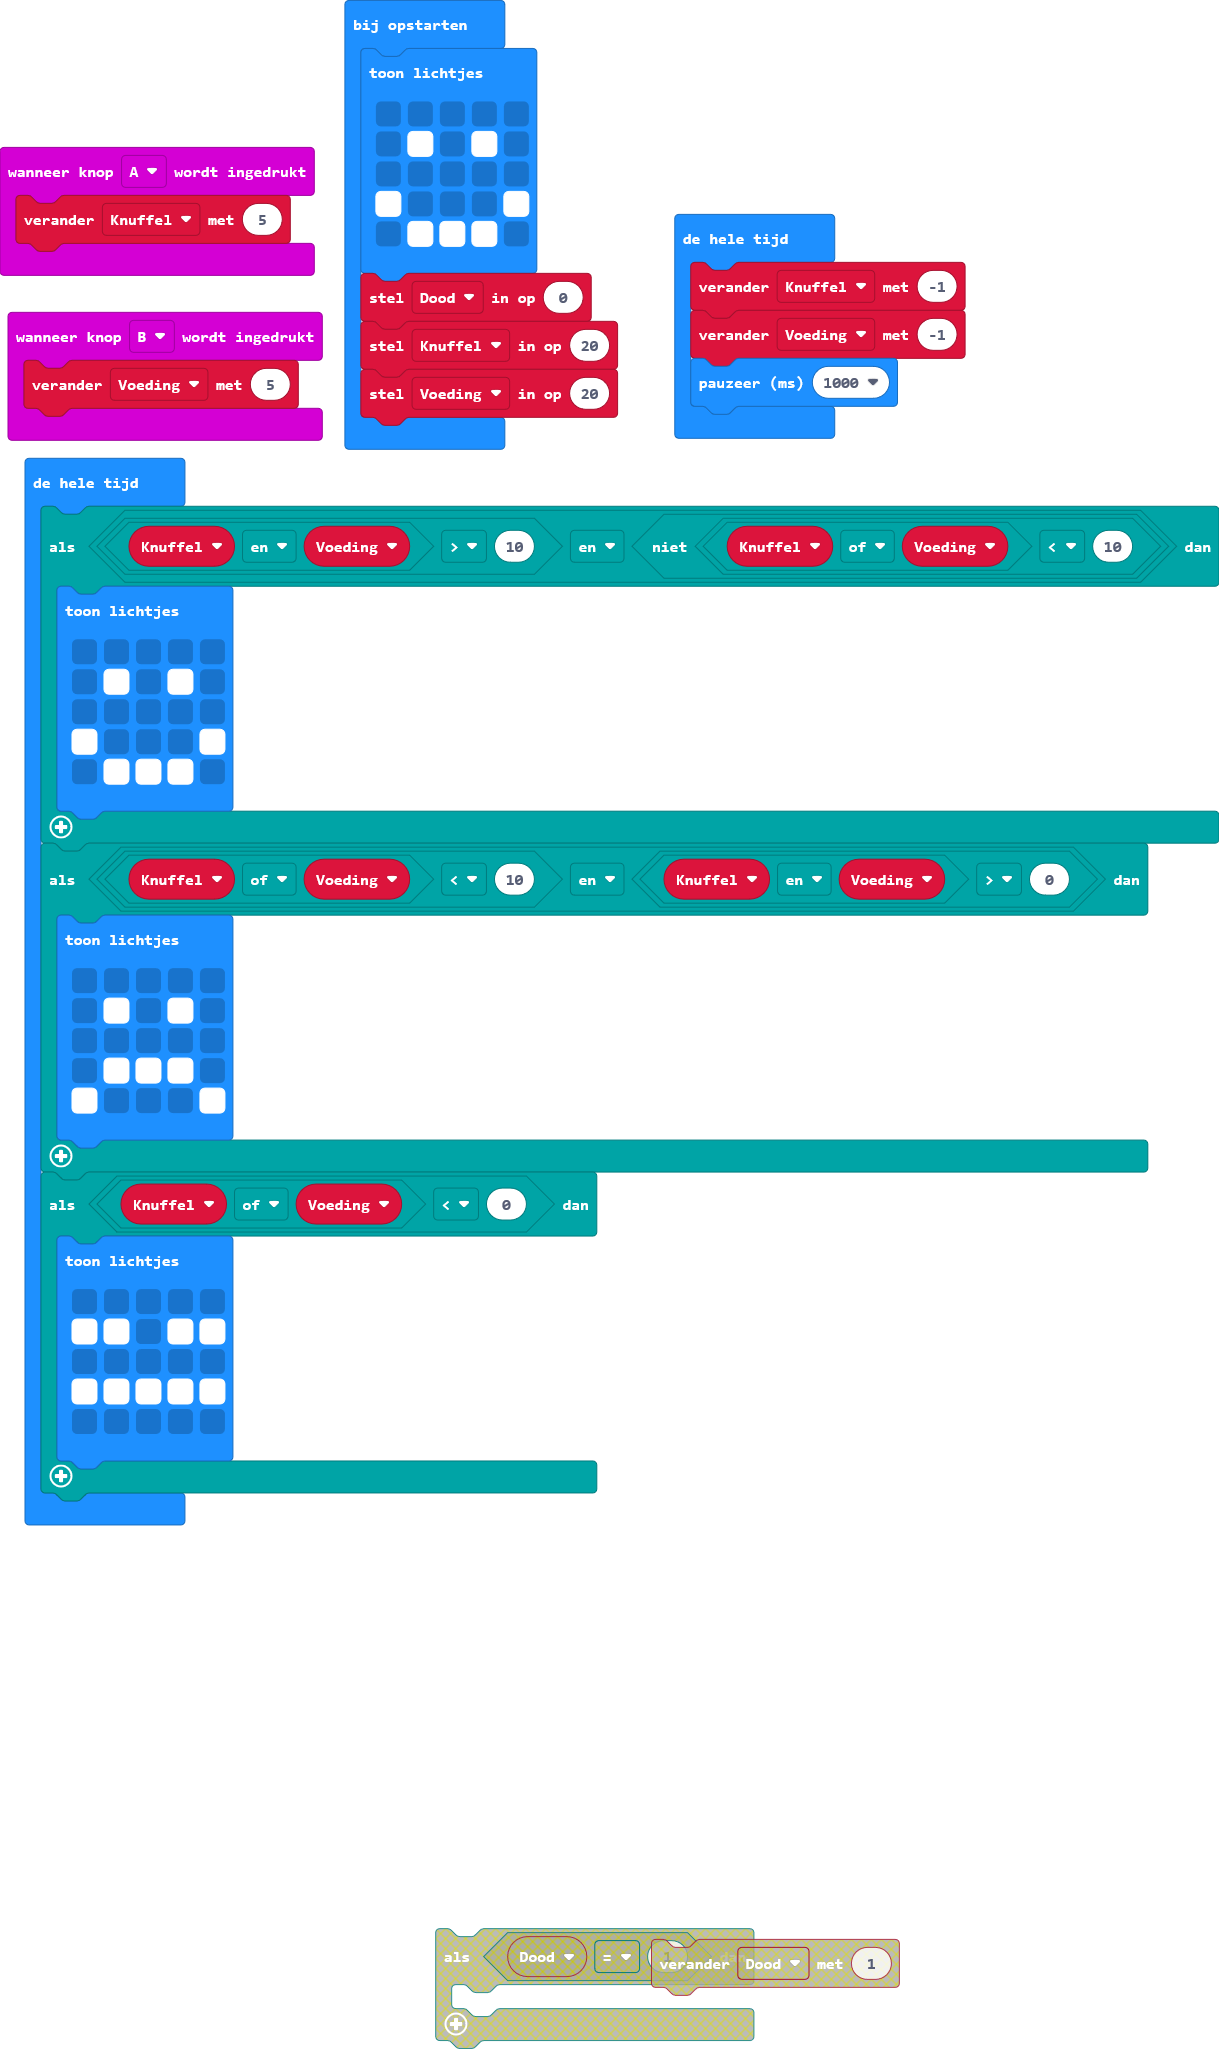
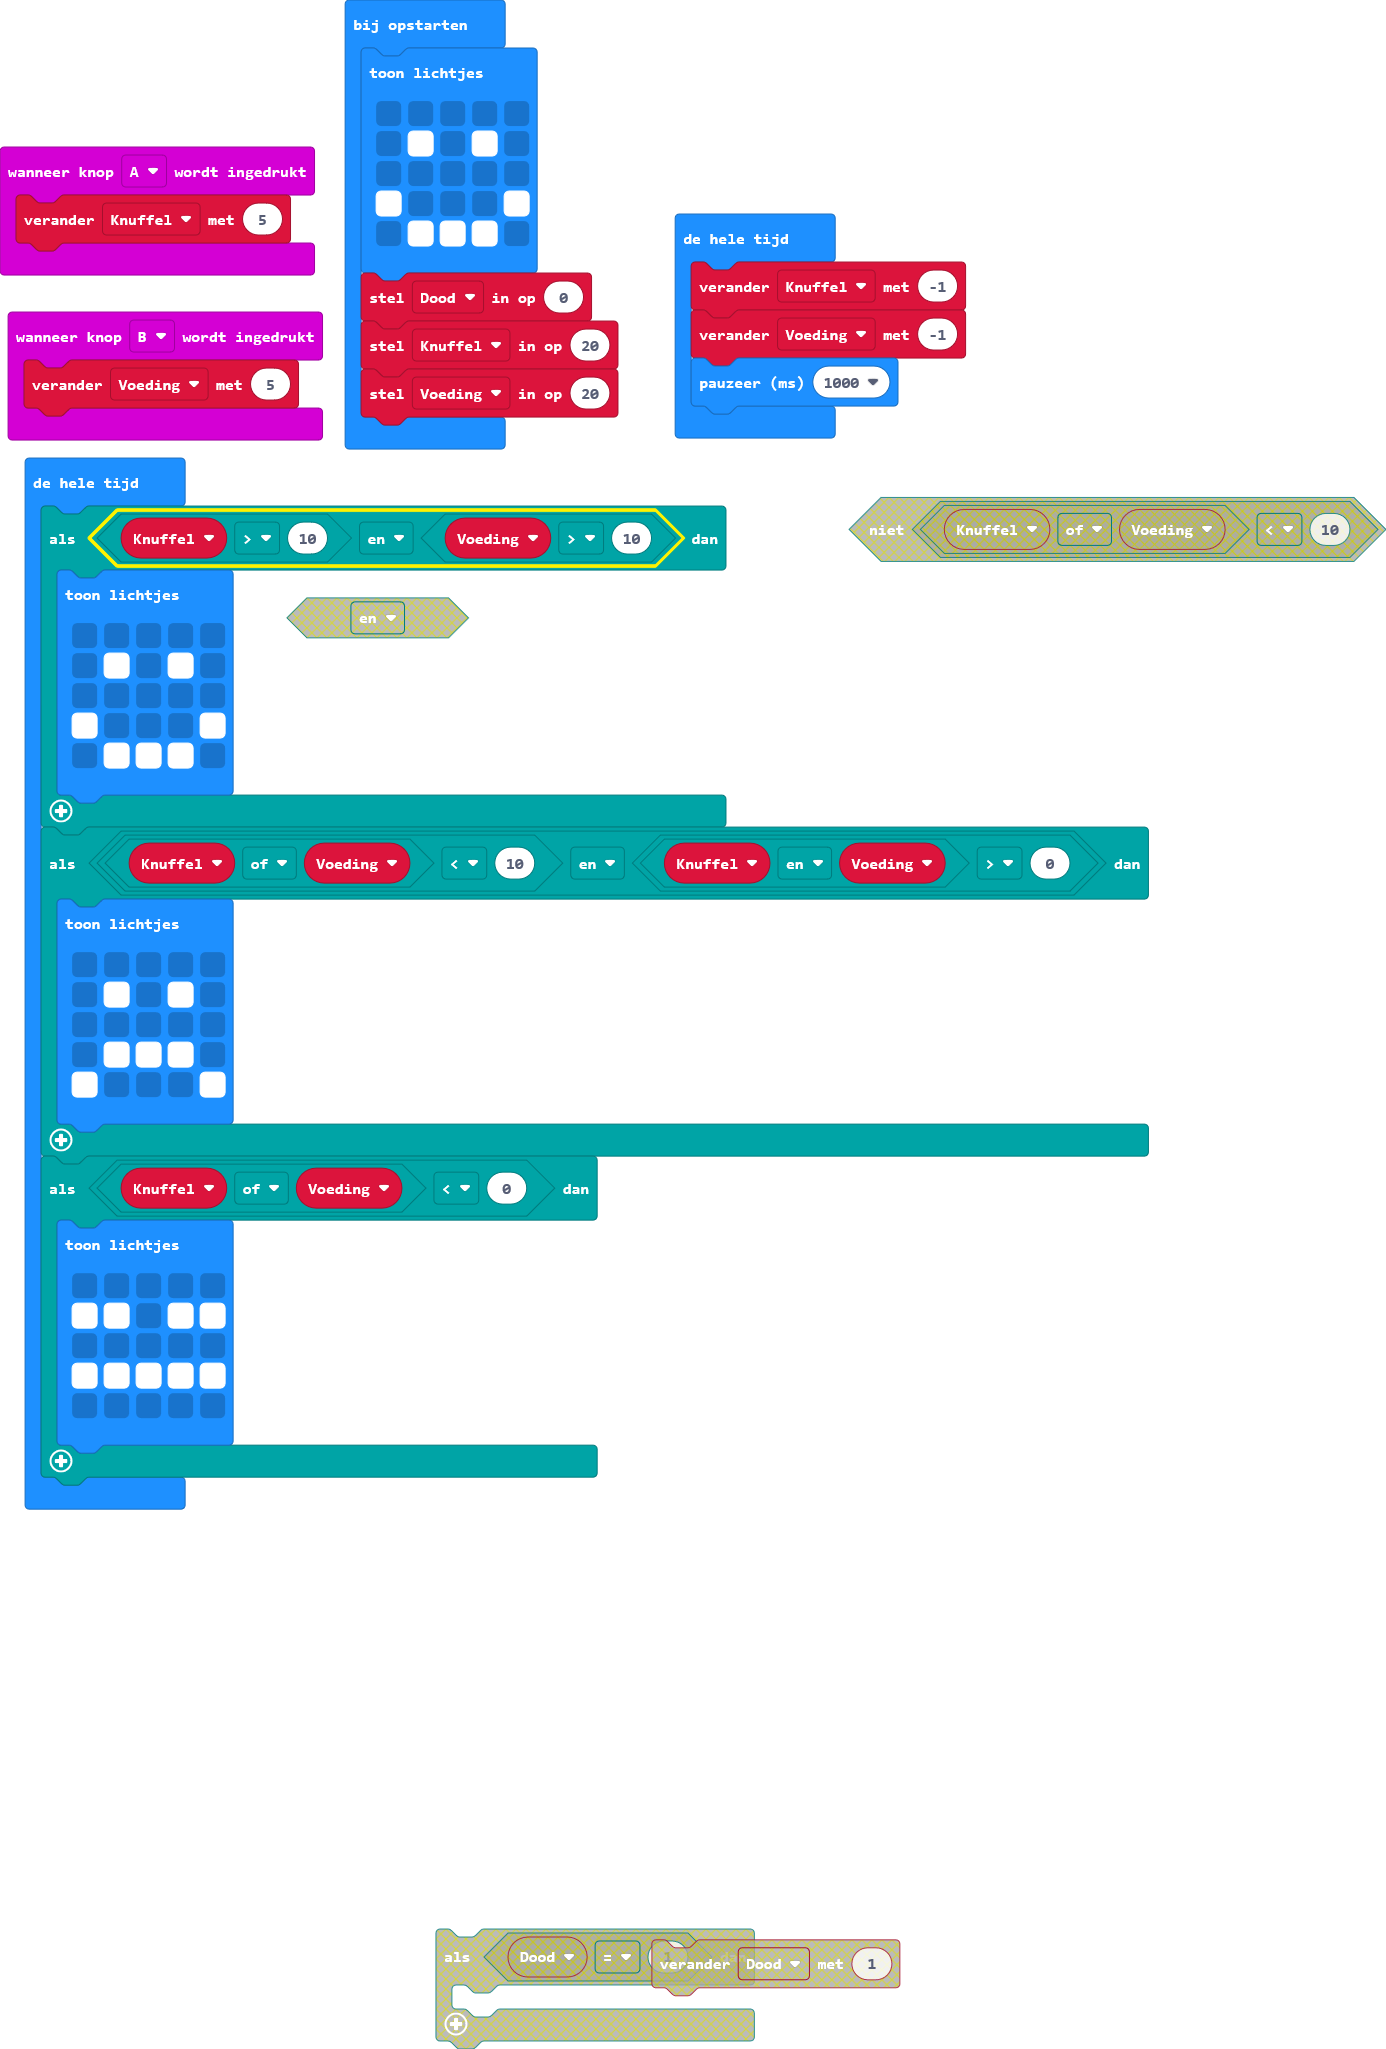
main.blocks, main.ts bijwerken

Changed region(s): [[0.0, 0.0, 1.0, 0.7496], [0.3117, 0.937, 0.7482, 1.0]]

diff --git a/main.ts b/main.ts
@@ -20,7 +20,7 @@ basic.forever(function () {
     basic.pause(1000)
 })
 basic.forever(function () {
-    if ((Knuffel && Voeding) > 10 && !((Knuffel || Voeding) < 10)) {
+    if (Knuffel > 10 && Voeding > 10) {
         basic.showLeds(`
             . . . . .
             . # . # .
